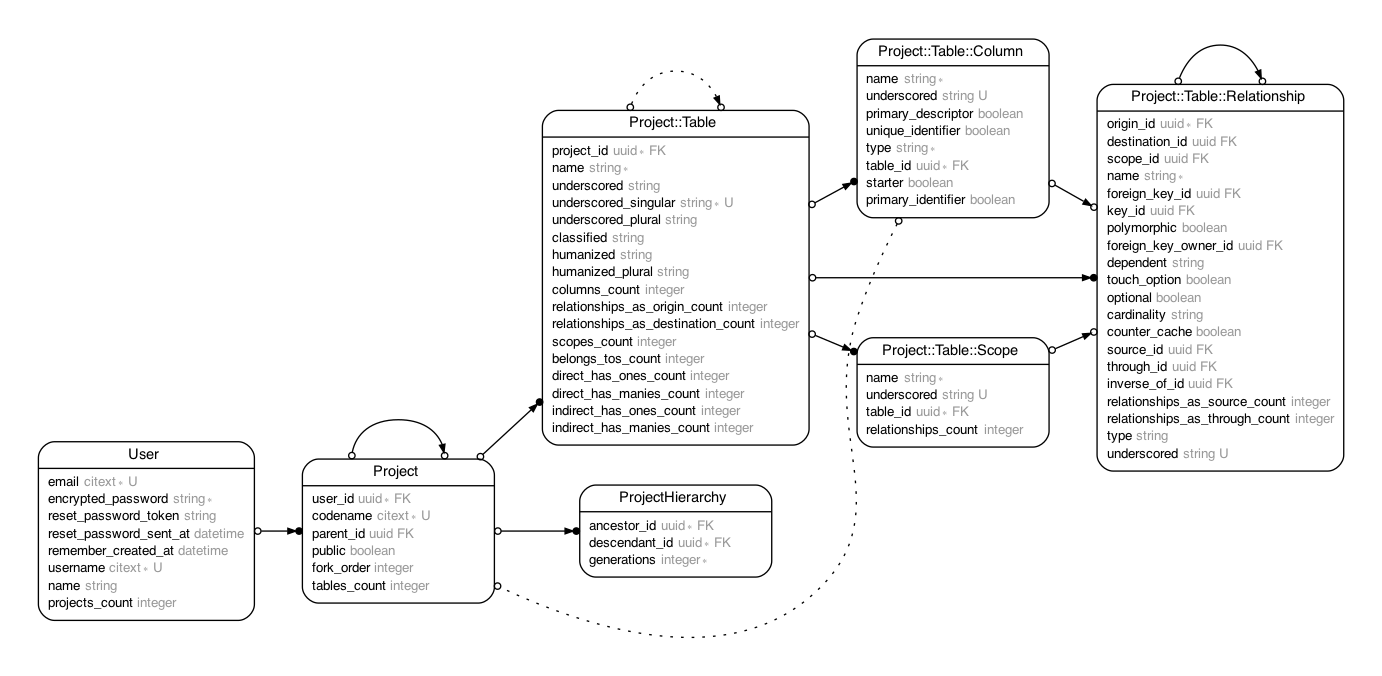
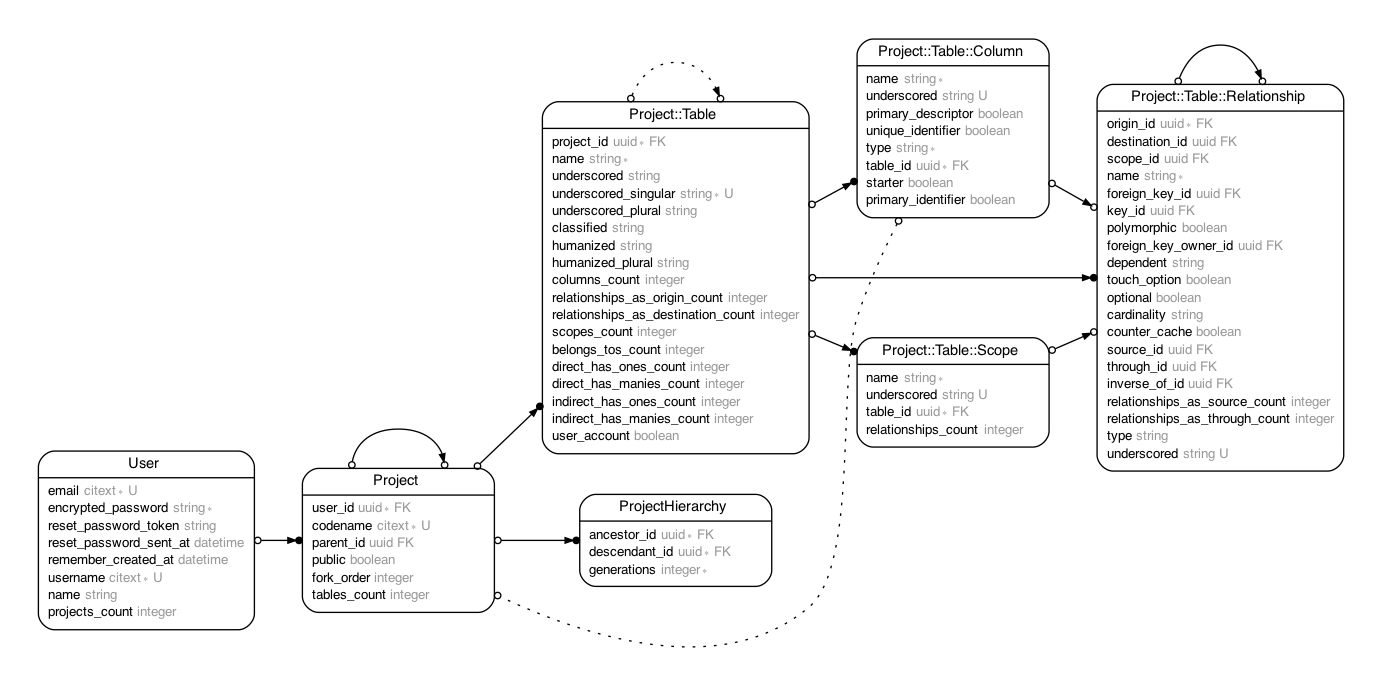
Add user_account column to table

diff --git a/test/models/project/table/relationship/direct_test.rb b/test/models/project/table/relationship/direct_test.rb
@@ -1,3 +1,44 @@
+# == Schema Information
+#
+# Table name: project_table_relationships
+#
+#  id                             :uuid             not null, primary key
+#  origin_id                      :uuid             not null
+#  destination_id                 :uuid
+#  scope_id                       :uuid
+#  name                           :string
+#  foreign_key_id                 :uuid
+#  key_id                         :uuid
+#  polymorphic                    :boolean
+#  foreign_key_owner_id           :uuid
+#  dependent                      :string           default("destroy")
+#  touch_option                   :boolean
+#  optional                       :boolean
+#  cardinality                    :string
+#  counter_cache                  :boolean
+#  source_id                      :uuid
+#  through_id                     :uuid
+#  inverse_of_id                  :uuid
+#  relationships_as_source_count  :integer          default("0")
+#  relationships_as_through_count :integer          default("0")
+#  type                           :string
+#  underscored                    :string
+#  created_at                     :datetime         not null
+#  updated_at                     :datetime         not null
+#
+# Indexes
+#
+#  index_project_table_relationships_on_destination_id        (destination_id)
+#  index_project_table_relationships_on_foreign_key_id        (foreign_key_id)
+#  index_project_table_relationships_on_foreign_key_owner_id  (foreign_key_owner_id)
+#  index_project_table_relationships_on_inverse_of_id         (inverse_of_id)
+#  index_project_table_relationships_on_key_id                (key_id)
+#  index_project_table_relationships_on_origin_id             (origin_id)
+#  index_project_table_relationships_on_scope_id              (scope_id)
+#  index_project_table_relationships_on_source_id             (source_id)
+#  index_project_table_relationships_on_through_id            (through_id)
+#
+
 require "test_helper"
 
 class Project::Table::Relationship::DirectTest < ActiveSupport::TestCase

diff --git a/app/models/project/table.rb b/app/models/project/table.rb
@@ -1,5 +1,4 @@
 # frozen_string_literal: true
-
 # == Schema Information
 #
 # Table name: project_tables
@@ -22,6 +21,7 @@
 #  direct_has_manies_count            :integer          default("0")
 #  indirect_has_ones_count            :integer          default("0")
 #  indirect_has_manies_count          :integer          default("0")
+#  user_account                       :boolean          default("false")
 #  created_at                         :datetime         not null
 #  updated_at                         :datetime         not null
 #
@@ -158,6 +158,22 @@ class Project::Table < ApplicationRecord
         }
       ]
     )
+
+    if user_account?
+      columns.create(
+        [
+          {
+            name: "email",
+            type: "Project::Table::Column::String",
+            unique_identifier: true
+          },
+          {
+            name: "password_digest",
+            type: "Project::Table::Column::String"
+          }
+        ]
+      )
+    end
   end
 
   def construct_has_some_and_inverse(

diff --git a/test/models/project/table/column_test.rb b/test/models/project/table/column_test.rb
@@ -1,3 +1,24 @@
+# == Schema Information
+#
+# Table name: project_table_columns
+#
+#  id                 :uuid             not null, primary key
+#  name               :string           not null
+#  underscored        :string
+#  primary_descriptor :boolean          default("false")
+#  unique_identifier  :boolean          default("false")
+#  type               :string
+#  table_id           :uuid             not null
+#  starter            :boolean          default("false")
+#  primary_identifier :boolean          default("false")
+#  created_at         :datetime         not null
+#  updated_at         :datetime         not null
+#
+# Indexes
+#
+#  index_project_table_columns_on_table_id  (table_id)
+#
+
 require "test_helper"
 
 class Project::Table::ColumnTest < ActiveSupport::TestCase

diff --git a/db/schema.rb b/db/schema.rb
@@ -100,6 +100,7 @@ ActiveRecord::Schema[7.0].define(version: 2021_08_25_104645) do
     t.integer "direct_has_manies_count", default: 0
     t.integer "indirect_has_ones_count", default: 0
     t.integer "indirect_has_manies_count", default: 0
+    t.boolean "user_account", default: false
     t.datetime "created_at", null: false
     t.datetime "updated_at", null: false
     t.index ["project_id"], name: "index_project_tables_on_project_id"

diff --git a/db/migrate/20210825091647_create_project_tables.rb b/db/migrate/20210825091647_create_project_tables.rb
@@ -20,6 +20,7 @@ class CreateProjectTables < ActiveRecord::Migration[6.1]
       t.integer :direct_has_manies_count, default: 0
       t.integer :indirect_has_ones_count, default: 0
       t.integer :indirect_has_manies_count, default: 0
+      t.boolean :user_account, default: :false
 
       t.timestamps
     end

diff --git a/app/models/user.rb b/app/models/user.rb
@@ -1,5 +1,4 @@
 # frozen_string_literal: true
-
 # == Schema Information
 #
 # Table name: users
